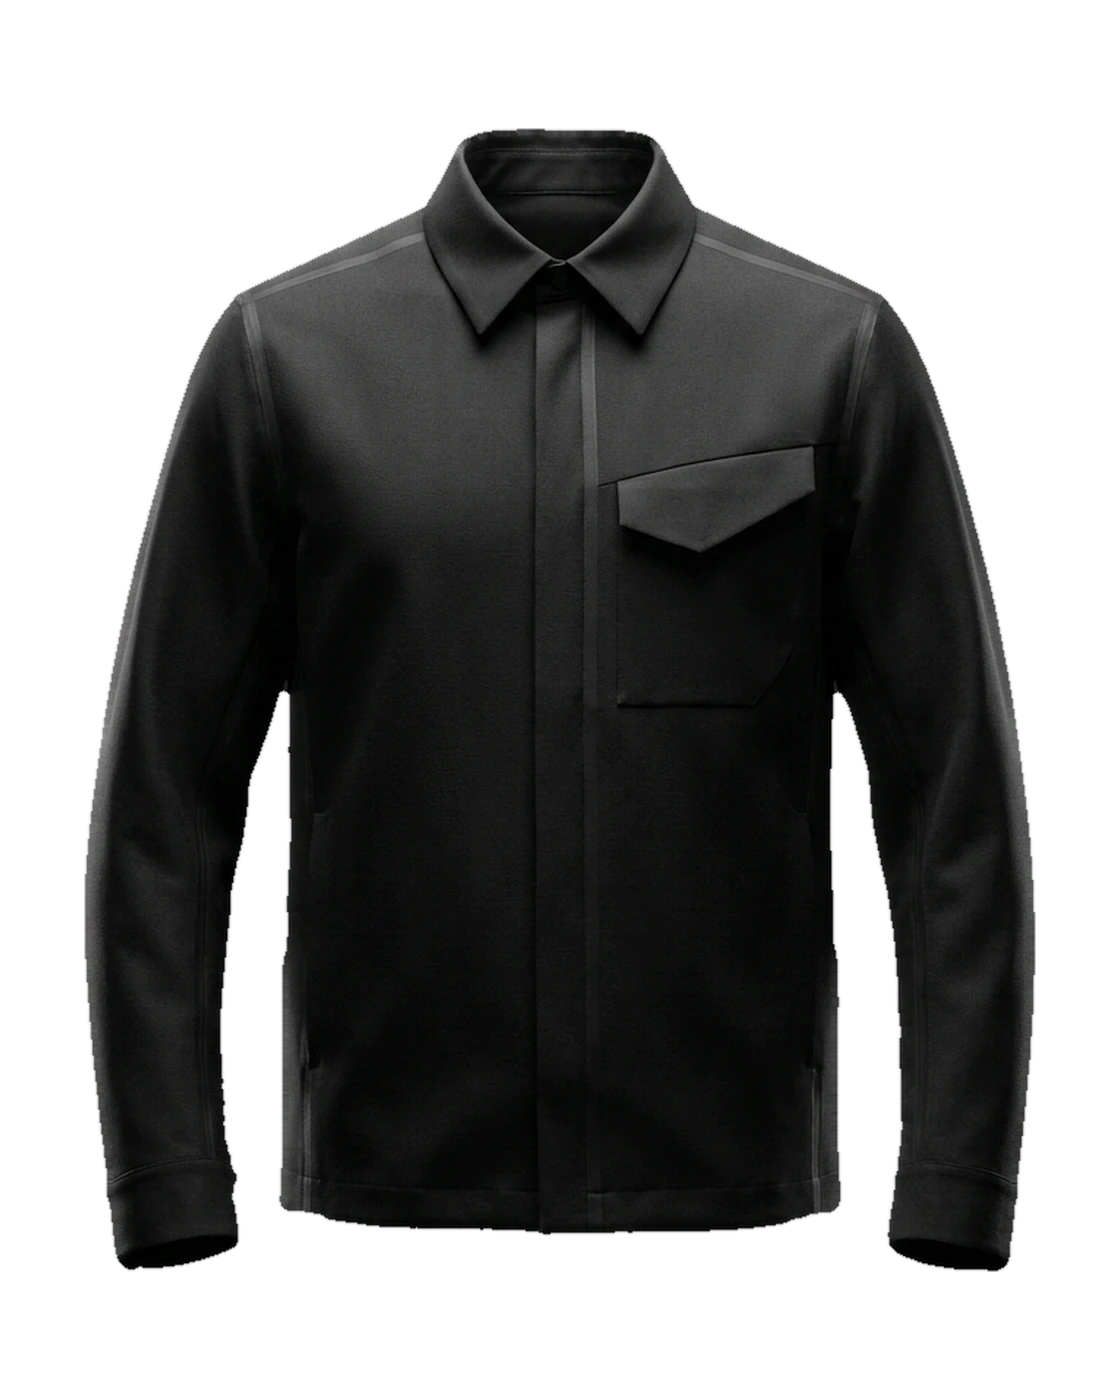
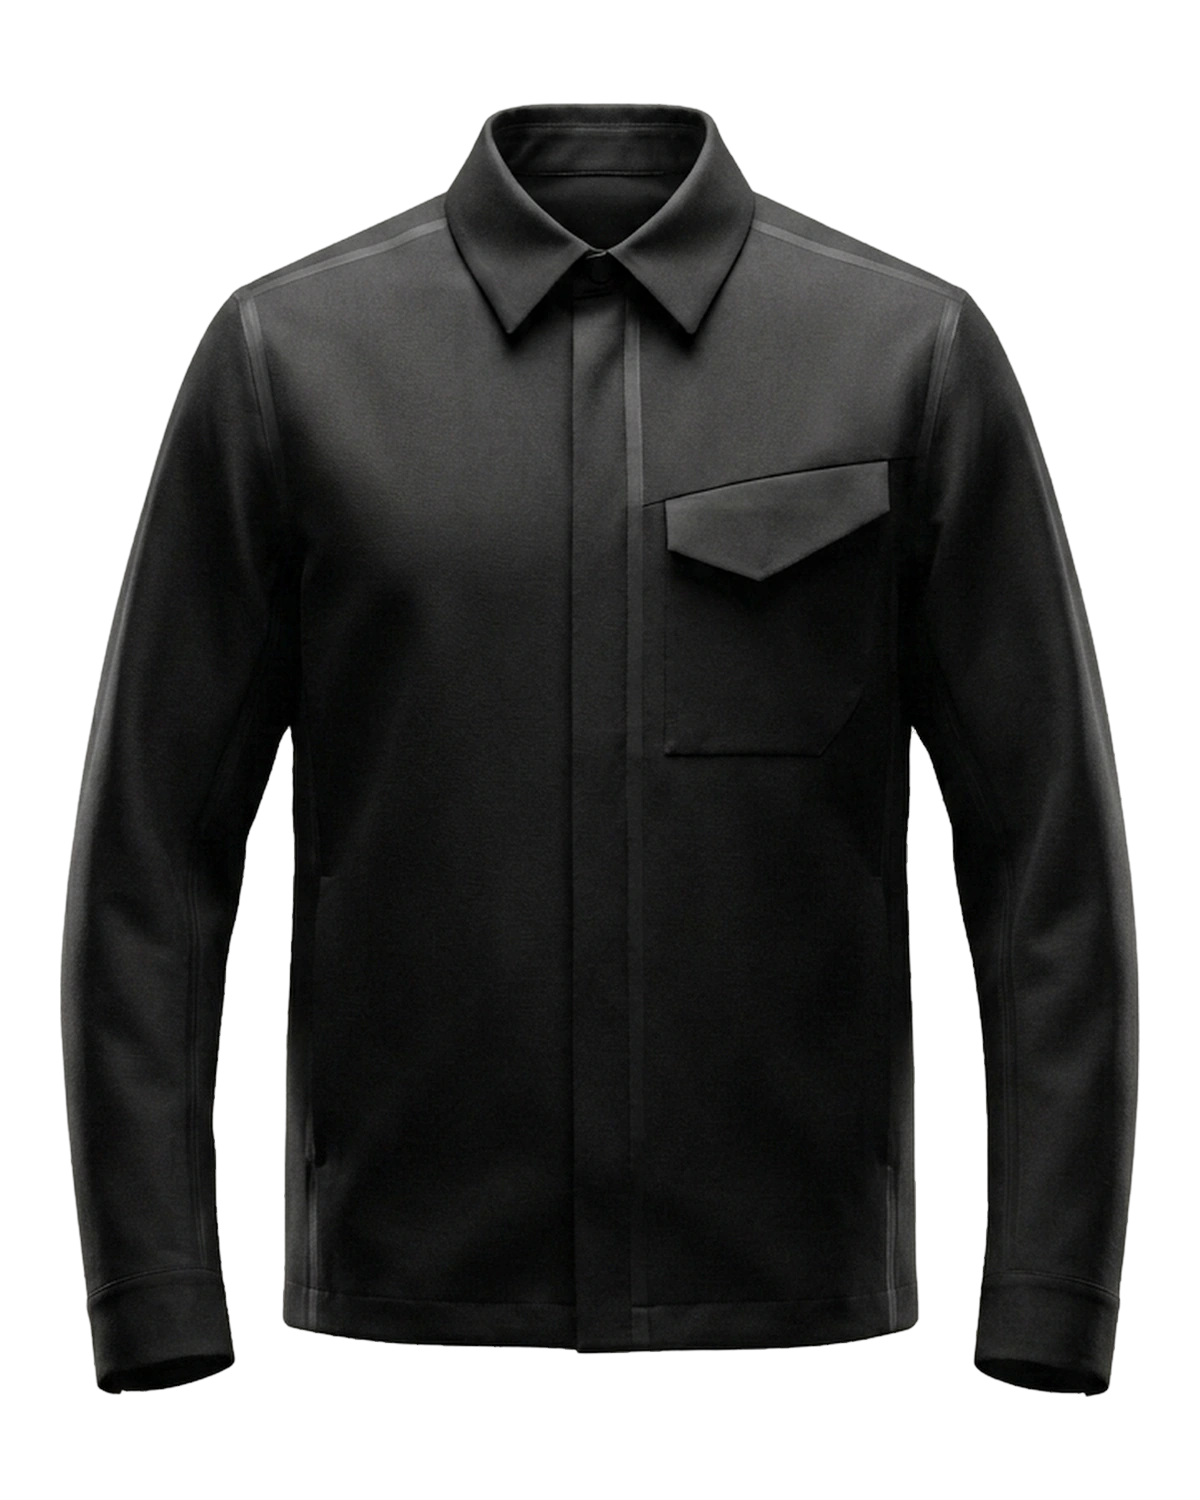
feat: upgrade flagship photography, stone studio cutouts, and scene lighting

Changed region(s): [[0.0312, 0.0614, 0.9688, 0.9521], [0.5625, 0.3686, 0.6562, 0.3993]]

diff --git a/src/sections/LookbookSection.tsx b/src/sections/LookbookSection.tsx
@@ -90,10 +90,10 @@ function LookbookPlate({
 
   const mobileFocus =
     frame.id === 'look-01'
-      ? 'object-cover object-[72%_48%] md:object-center'
+      ? 'object-cover object-[77%_46%] md:object-center'
       : frame.id === 'look-02'
         ? 'object-cover object-[76%_50%] md:object-center'
-        : 'object-cover object-[76%_40%] md:object-center';
+        : 'object-cover object-[75%_40%] md:object-center';
 
   return (
     <article
@@ -119,13 +119,17 @@ function LookbookPlate({
           aria-hidden="true"
           className="pointer-events-none absolute inset-0 bg-gradient-to-tr from-[#0B0B0A]/88 via-[#0B0B0A]/32 to-transparent"
         />
+        <div
+          aria-hidden="true"
+          className="pointer-events-none absolute inset-x-0 top-0 h-32 bg-gradient-to-b from-[#0B0B0A]/52 to-transparent"
+        />
       </div>
 
       <div
-        className="relative z-10 mx-[var(--gutter)] mt-12 flex items-center justify-between border-b border-[#EDE8DF]/14 pb-3.5 md:mt-[clamp(4.75rem,8vh,5.75rem)] md:pb-4"
+        className="relative z-10 mx-[var(--gutter)] mt-12 flex items-center justify-between border-b border-[#EDE8DF]/18 pb-3.5 md:mt-[clamp(4.75rem,8vh,5.75rem)] md:pb-4"
       >
-        <span className="text-[14px] tracking-[0.04em] text-[#EDE8DF]/84">{sectionLabel}</span>
-        <span className="text-[14px] tracking-[0.04em] text-[#EDE8DF]/76">{frame.tag}</span>
+        <span className="text-[14px] tracking-[0.04em] text-[#EDE8DF]/90">{sectionLabel}</span>
+        <span className="text-[14px] tracking-[0.04em] text-[#EDE8DF]/88">{frame.tag}</span>
       </div>
 
       <div

diff --git a/src/lib/brand.config.ts b/src/lib/brand.config.ts
@@ -173,7 +173,7 @@ export const brandConfig = {
 
   fullBleed: {
     image: '/images/editorial-fullbleed.webp',
-    alt: 'Editorial frame in minimalist concrete gallery wearing obsidian stand-collar overshirt and wide wool trousers',
+    alt: 'Editorial frame in minimalist concrete gallery wearing obsidian pointed-collar overshirt and wide wool trousers',
     line: 'Cut to move through quiet rooms.',
   },
 
@@ -188,7 +188,7 @@ export const brandConfig = {
         name: 'Technical overshirt',
         category: 'Outerwear',
         material: 'Dense matte twill',
-        specDetail: 'Concealed magnetic placket, angled welt chest pocket, articulated sleeve.',
+        specDetail: 'Concealed magnetic placket, angled flap chest pocket, articulated sleeve.',
         price: 420,
         image: '/images/collection-overshirt.webp',
         alt: 'Angled studio view of obsidian technical overshirt',
@@ -264,7 +264,7 @@ export const brandConfig = {
         overlayLines: ['Silent', 'structure'],
         caption: 'Technical overshirt & pleated trouser',
         image: '/images/lookbook-01.webp',
-        alt: 'Wide concrete gallery lookbook photograph wearing obsidian stand-collar overshirt and wide pleated trouser beside architectural pillar',
+        alt: 'Wide concrete gallery lookbook photograph wearing obsidian pointed-collar overshirt and wide pleated trouser beside architectural pillar',
       },
       {
         id: 'look-02',

diff --git a/src/app/globals.css b/src/app/globals.css
@@ -291,7 +291,7 @@ html.has-cursor * {
   position: absolute;
   inset: -12%;
   z-index: -1;
-  background: radial-gradient(closest-side, rgba(237, 232, 223, 0.09), transparent 72%);
+  background: radial-gradient(closest-side, rgba(237, 232, 223, 0.13), transparent 72%);
   pointer-events: none;
 }
 
